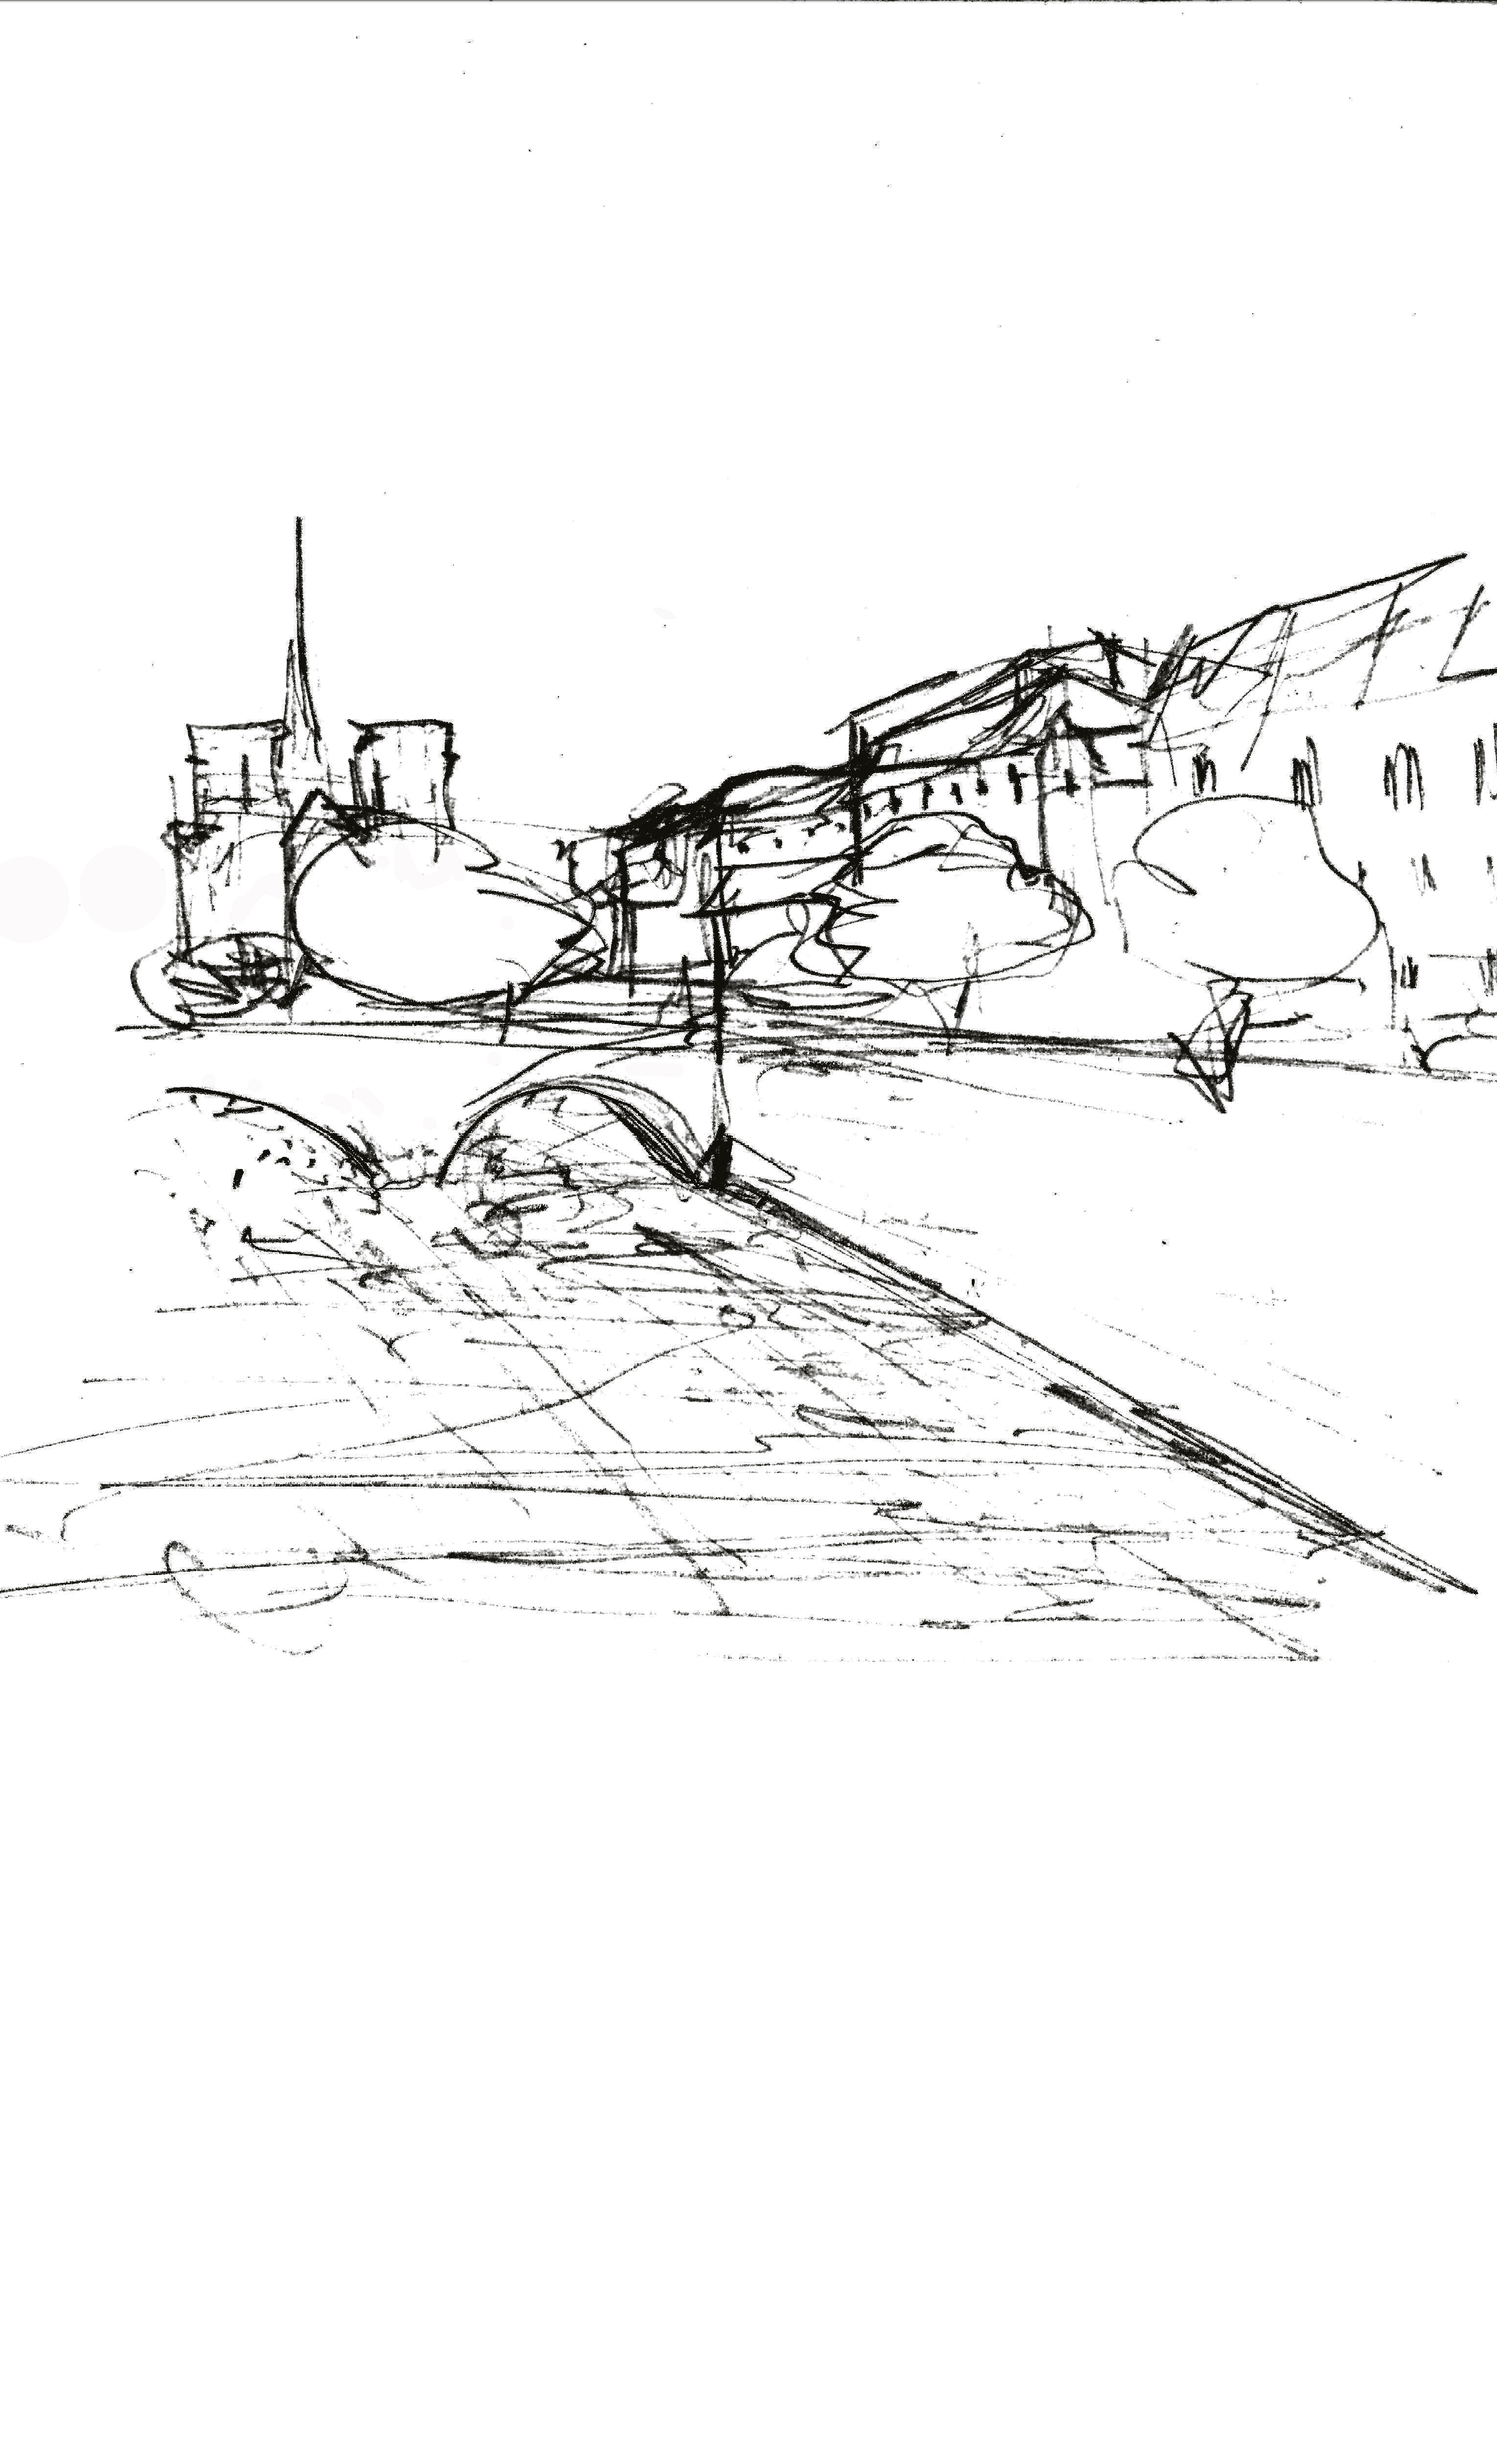
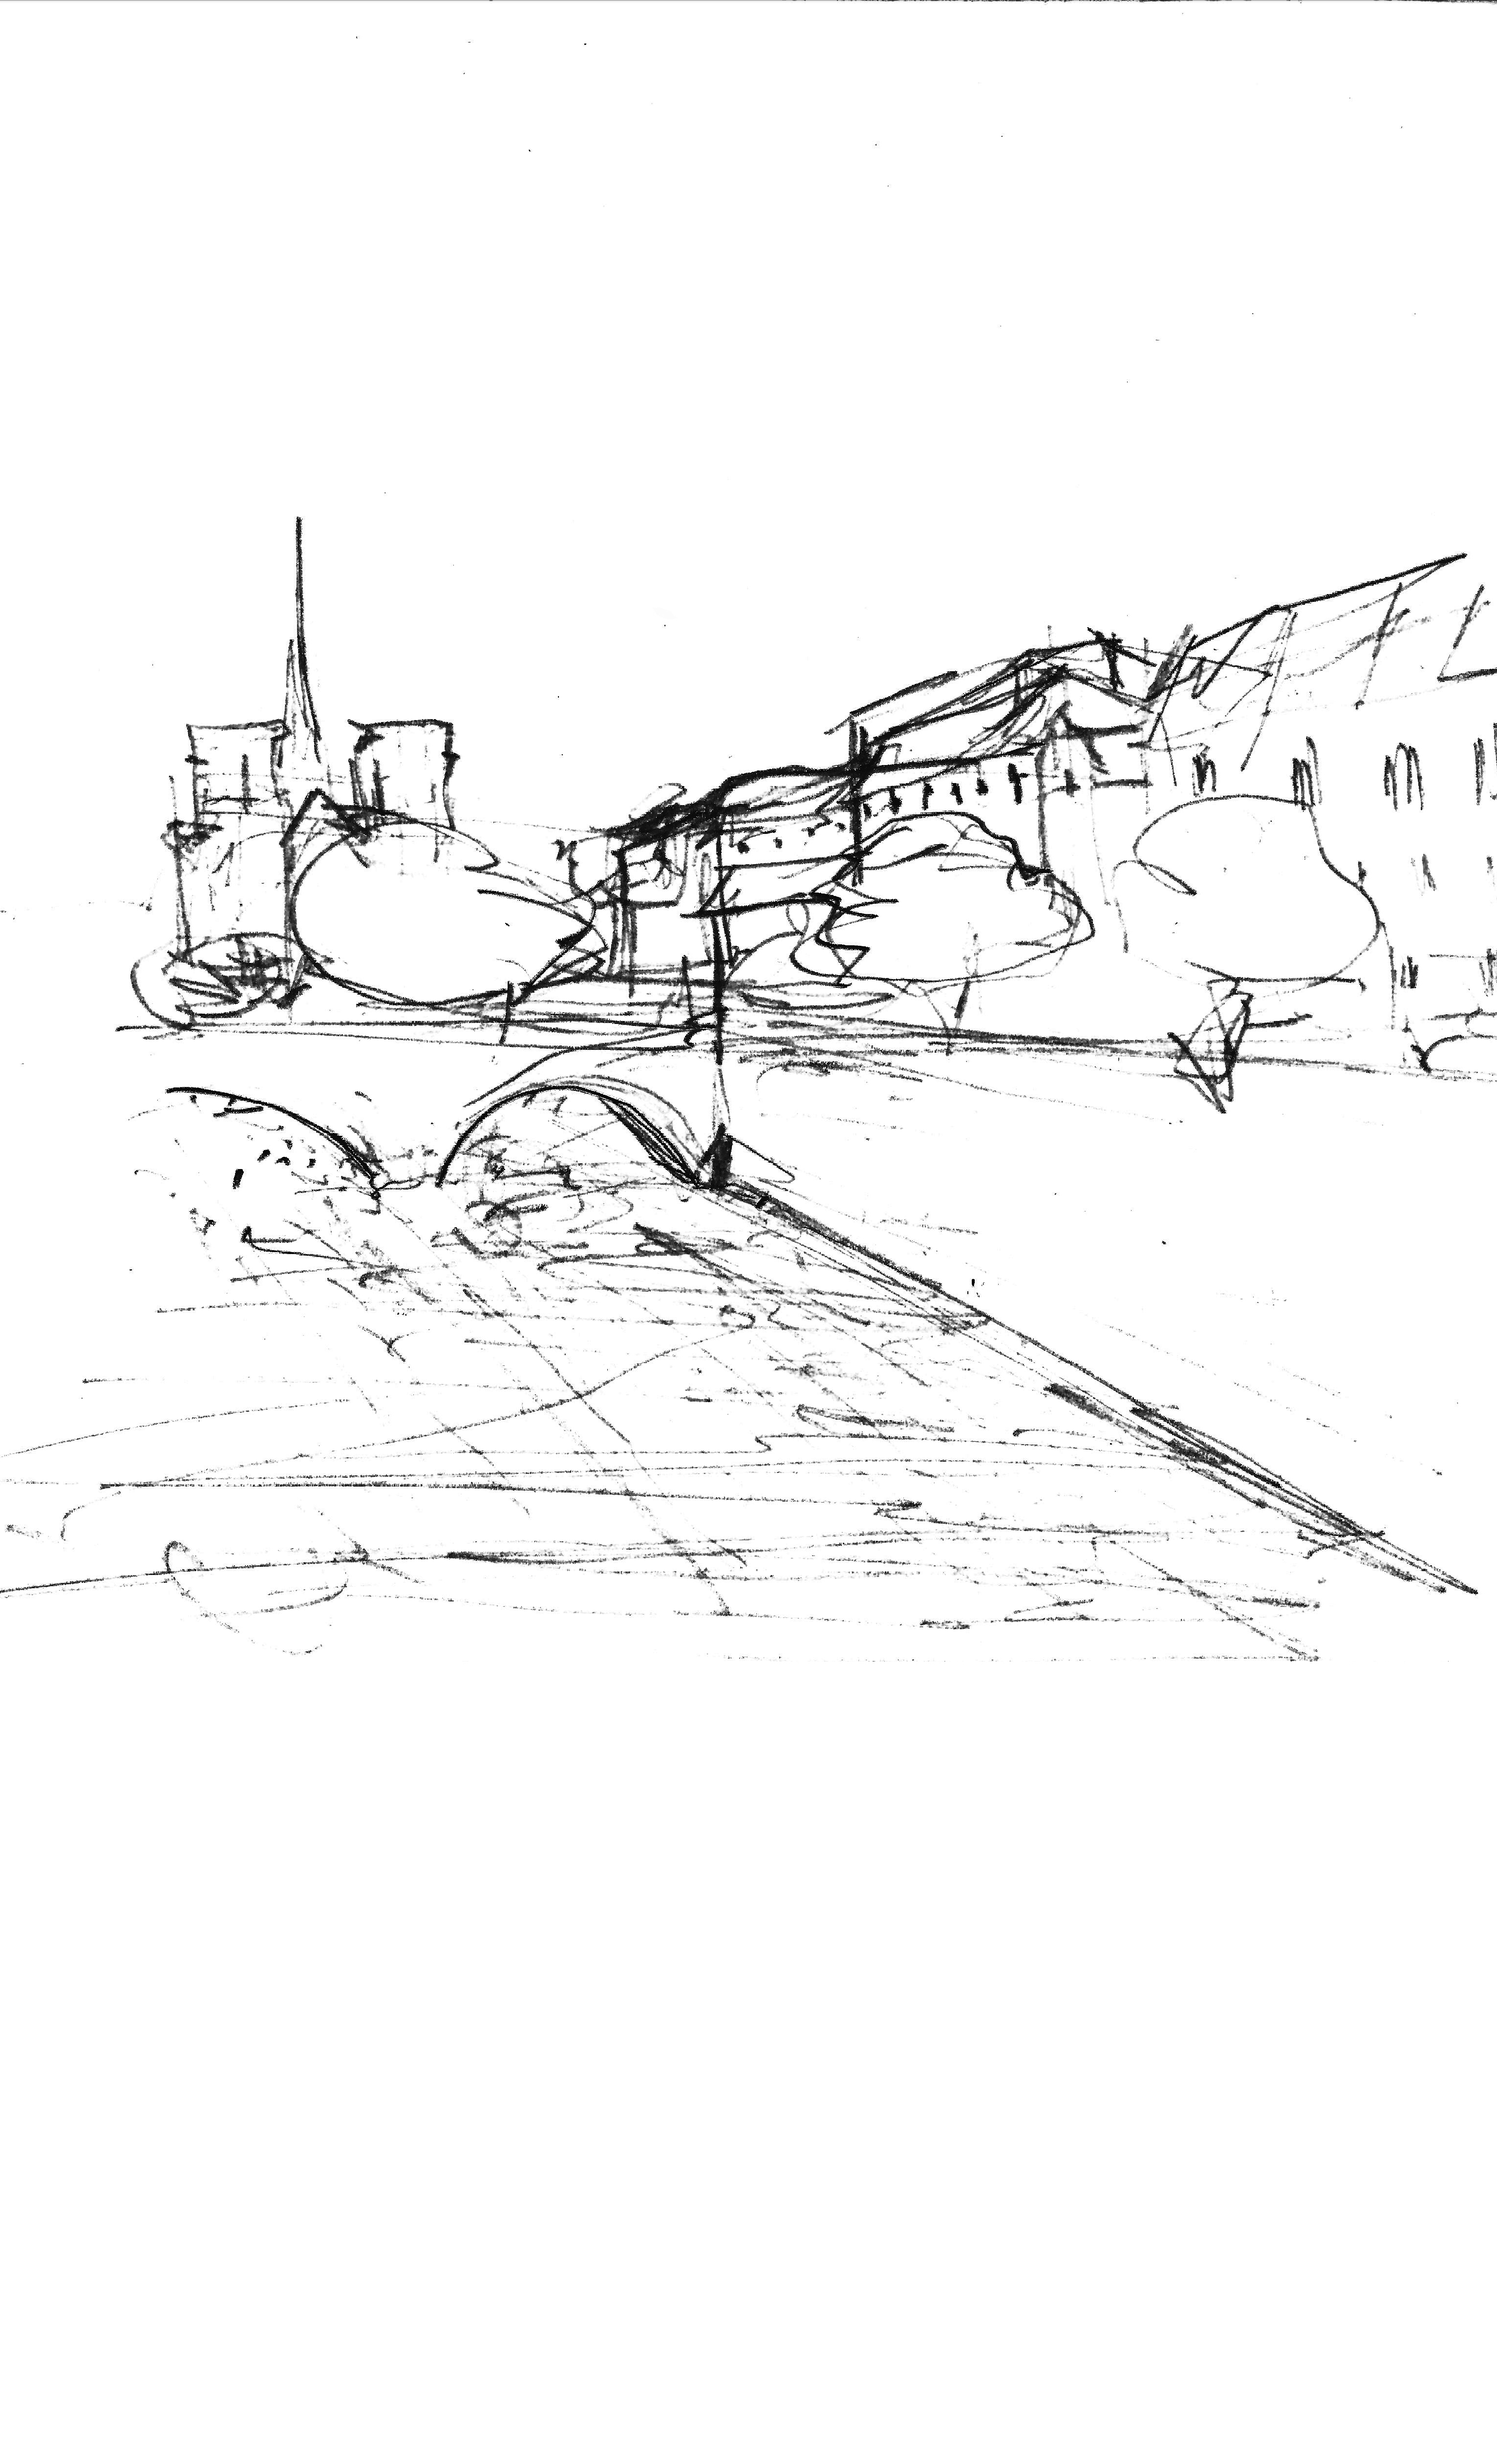
subst. imagens

diff --git a/ORIGINAIS.tex b/ORIGINAIS.tex
@@ -663,7 +663,7 @@ assim como a árvore perde os frutos.
 
 %\begin{vplace}[30]
 \begin{center}
-\vspace*{2cm}
+\vspace*{2.5cm}
 \hspace*{-1.2cm}\includegraphics[width=111mm]{./imgs/canal2.jpg}
 \end{center}
 %\end{vplace}
